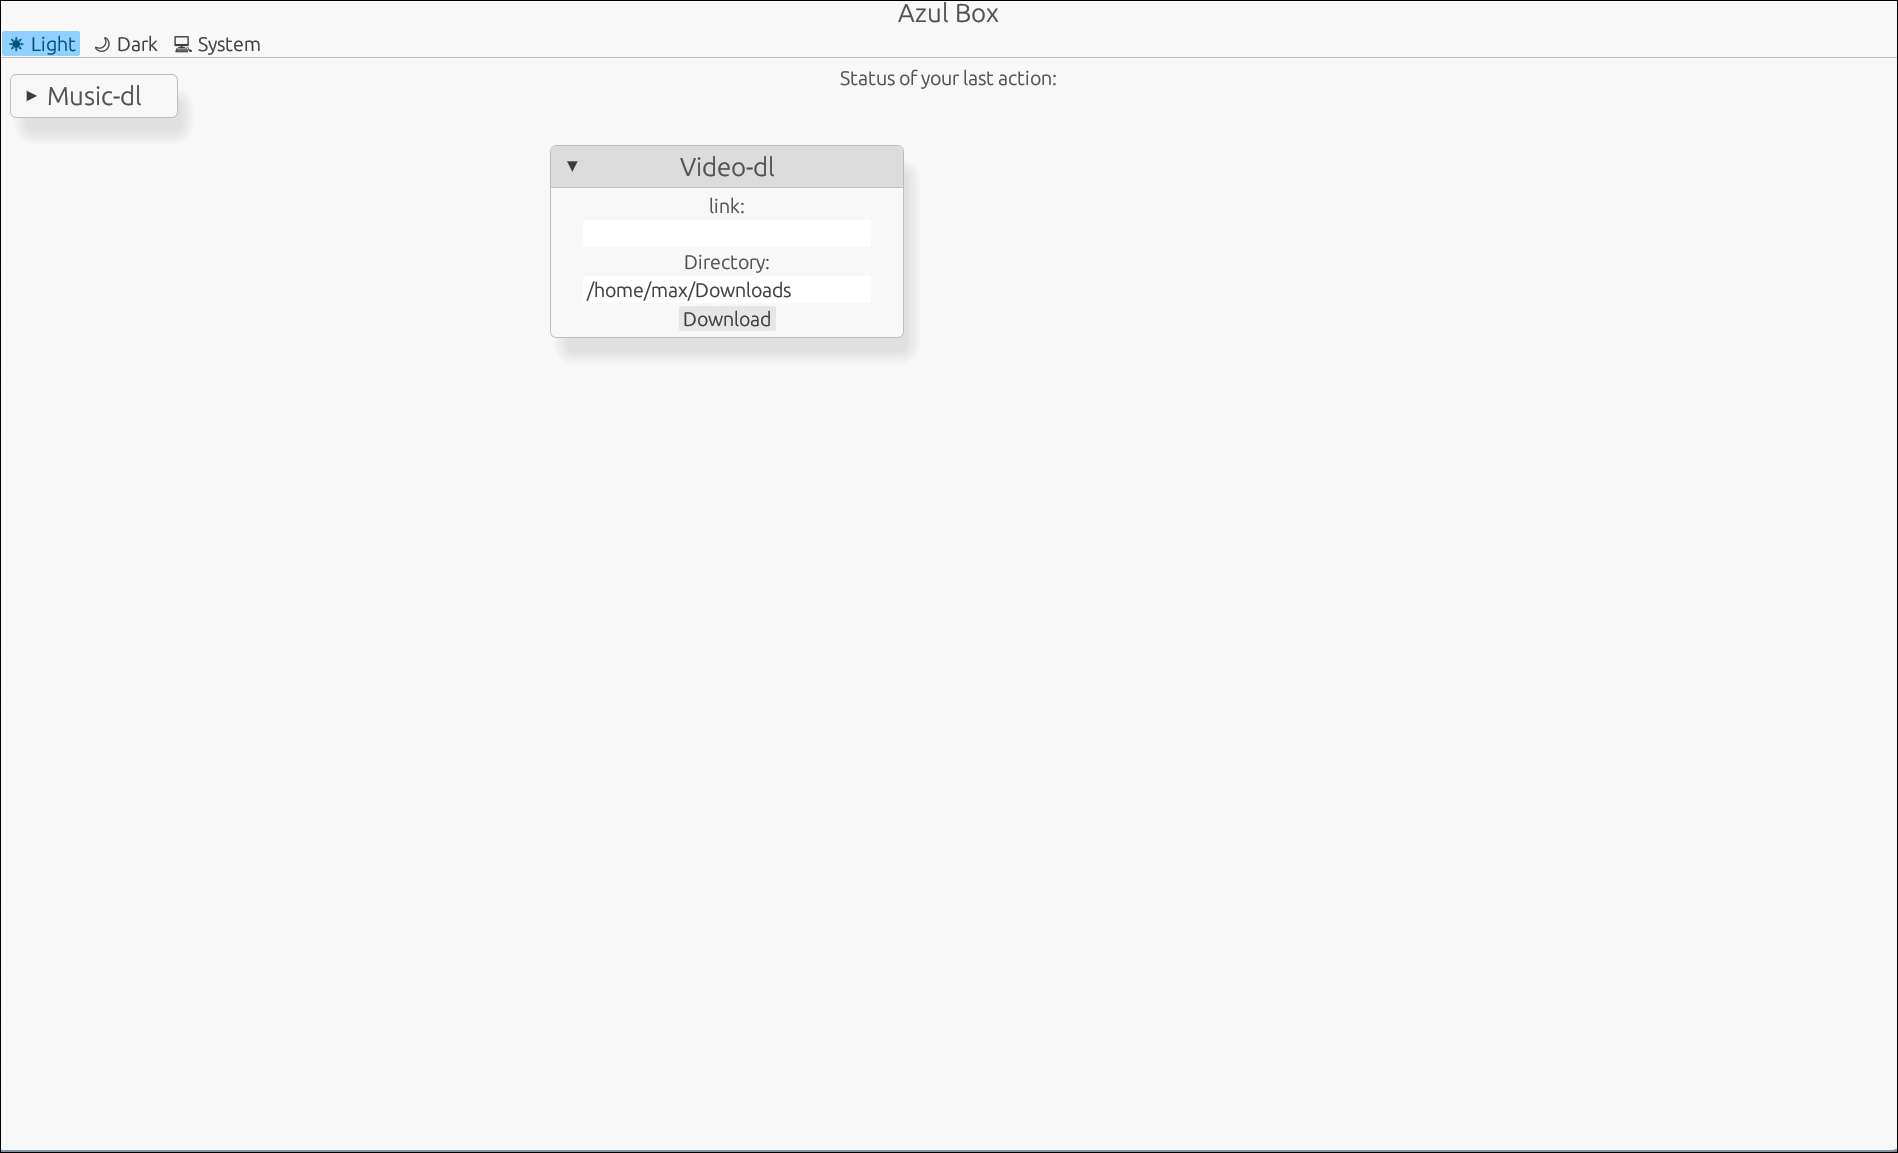
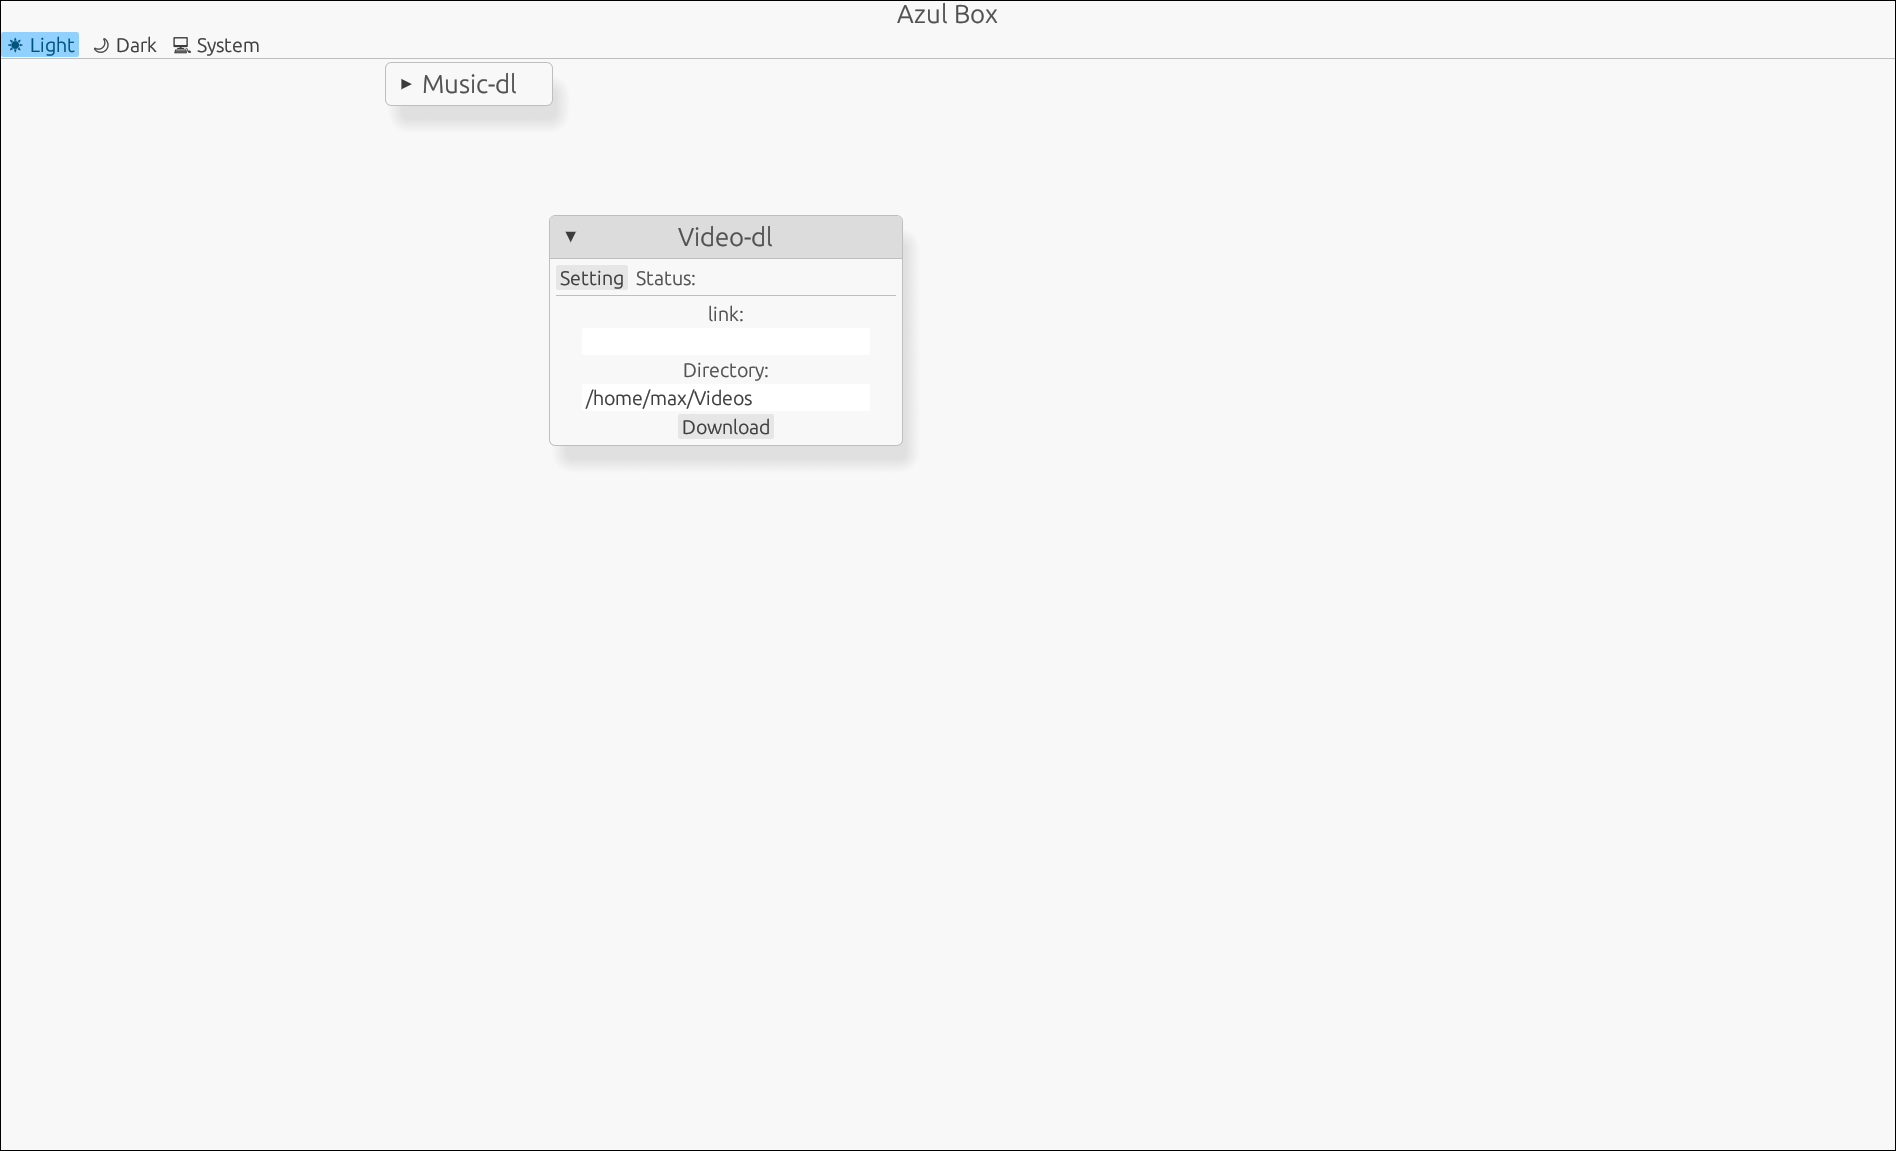
Update format choice

diff --git a/src/ui/video.rs b/src/ui/video.rs
@@ -9,6 +9,7 @@ pub struct VideoDownload {
     pub out_directory: String,
     pub status_complete: Arc<AtomicBool>,
     pub status_pending: Arc<AtomicBool>,
+    pub format: i8,
 }
 
 impl Default for VideoDownload {
@@ -21,6 +22,7 @@ impl Default for VideoDownload {
             out_directory: default_directory,
             status_complete: Arc::new(AtomicBool::new(false)),
             status_pending: Arc::new(AtomicBool::new(false)),
+            format: 1,
         }
     }
 }
@@ -33,11 +35,28 @@ impl VideoDownload {
     fn start_download_status(&mut self) {
         self.status_pending.store(true, Ordering::Relaxed);
     }
+    fn format_button(&mut self, ui: &mut egui::Ui, name: &str, numbername: i8) {
+        if self.format == numbername {
+            if ui
+                .add(egui::Button::new(
+                    egui::RichText::new(name).color(Color32::LIGHT_GREEN),
+                ))
+                .clicked()
+            {
+                self.format = numbername;
+            };
+        } else {
+            if ui.button(name).clicked() {
+                self.format = numbername;
+            };
+        }
+    }
     pub fn ui(&mut self, ui: &mut egui::Ui) {
         ui.horizontal(|ui| {
             ui.menu_button("Setting", |ui| {
                 ui.menu_button("Format", |ui| {
-                    ui.label("still empty");
+                    self.format_button(ui, "MKV", 1);
+                    self.format_button(ui, "MP4", 2);
                 });
                 if ui.button("Close").clicked() {
                     ui.close_menu();
@@ -81,11 +100,12 @@ impl VideoDownload {
 
                 let link = self.link.clone();
                 let directory = self.out_directory.clone();
+                let format = self.format.clone();
                 let complete = self.status_complete.clone();
                 let doing = self.status_pending.clone();
 
                 tokio::task::spawn(async move {
-                    download(link, directory).await;
+                    download(link, directory, format).await;
                     complete.store(true, Ordering::Relaxed);
                     doing.store(false, Ordering::Relaxed);
                 });
@@ -94,15 +114,20 @@ impl VideoDownload {
     }
 }
 
-async fn download(link: String, directory: String) {
+async fn download(link: String, directory: String, format: i8) {
+    if format == 1 {
+        mkv_dl(link, directory).await;
+    } else if format == 2 {
+        mp4_dl(link, directory).await;
+    }
+}
+async fn mkv_dl(link: String, directory: String) {
     let output = Command::new("yt-dlp")
         .arg("-f")
         .arg("bestvideo+bestaudio")
         .arg("--embed-thumbnail")
         .arg("--embed-subs")
-        .arg("--add-metadata")
-        .arg("--metadata-from-title")
-        .arg("--write-info-json")
+        .arg("--embed-metadata")
         .arg(link)
         .current_dir(directory)
         .output()
@@ -110,4 +135,22 @@ async fn download(link: String, directory: String) {
         .expect("Failed to execute command");
 
     println!("{:?}", output);
+    println!("best");
+}
+
+async fn mp4_dl(link: String, directory: String) {
+    let output = Command::new("yt-dlp")
+        .arg("-f")
+        .arg("bestvideo[ext=mp4]+bestaudio[ext=m4a]/best[ext=mp4]/best")
+        .arg("--embed-thumbnail")
+        .arg("--embed-subs")
+        .arg("--embed-metadata")
+        .arg(link)
+        .current_dir(directory)
+        .output()
+        .await
+        .expect("Failed to execute command");
+
+    println!("{:?}", output);
+    println!("mp4");
 }

diff --git a/src/ui/music.rs b/src/ui/music.rs
@@ -9,6 +9,7 @@ pub struct MusicDownload {
     pub out_directory: String,
     pub status_complete: Arc<AtomicBool>,
     pub status_pending: Arc<AtomicBool>,
+    pub format: i8,
 }
 
 impl Default for MusicDownload {
@@ -21,6 +22,7 @@ impl Default for MusicDownload {
             out_directory: default_directory,
             status_complete: Arc::new(AtomicBool::new(false)),
             status_pending: Arc::new(AtomicBool::new(false)),
+            format: 1,
         }
     }
 }
@@ -33,11 +35,31 @@ impl MusicDownload {
     fn start_download_status(&mut self) {
         self.status_pending.store(true, Ordering::Relaxed);
     }
+    fn format_button(&mut self, ui: &mut egui::Ui, name: &str, numbername: i8) {
+        if self.format == numbername {
+            if ui
+                .add(egui::Button::new(
+                    egui::RichText::new(name).color(Color32::LIGHT_GREEN),
+                ))
+                .clicked()
+            {
+                self.format = numbername;
+            };
+        } else {
+            if ui.button(name).clicked() {
+                self.format = numbername;
+            };
+        }
+    }
     pub fn ui(&mut self, ui: &mut egui::Ui) {
         ui.horizontal(|ui| {
             ui.menu_button("Setting", |ui| {
                 ui.menu_button("Format", |ui| {
-                    ui.label("still empty");
+                    self.format_button(ui, "OPUS", 1);
+                    self.format_button(ui, "FLAC", 2);
+                    self.format_button(ui, "MP3", 3);
+                    self.format_button(ui, "M4A", 4);
+                    self.format_button(ui, "WAV", 5);
                 });
                 if ui.button("Close").clicked() {
                     ui.close_menu();
@@ -81,11 +103,12 @@ impl MusicDownload {
 
                 let link = self.link.clone();
                 let directory = self.out_directory.clone();
+                let format = self.format.clone();
                 let complete = self.status_complete.clone();
                 let doing = self.status_pending.clone();
 
                 tokio::task::spawn(async move {
-                    download(link, directory).await;
+                    download(link, directory, format).await;
                     complete.store(true, Ordering::Relaxed);
                     doing.store(false, Ordering::Relaxed);
                 });
@@ -94,12 +117,27 @@ impl MusicDownload {
     }
 }
 
-async fn download(link: String, directory: String) {
+async fn download(link: String, directory: String, format: i8) {
+    if format == 1 {
+        format_dl(link, directory, "opus").await;
+    } else if format == 2 {
+        format_dl(link, directory, "flac").await;
+    } else if format == 3 {
+        format_dl(link, directory, "mp3").await;
+    } else if format == 4 {
+        format_dl(link, directory, "m4a").await;
+    } else if format == 5 {
+        format_dl(link, directory, "wav").await;
+    }
+}
+async fn format_dl(link: String, directory: String, format_name: &str) {
     let output = Command::new("yt-dlp")
         .arg("-i")
         .arg("-x")
         .arg("--audio-quality")
         .arg("0")
+        .arg("--audio-format")
+        .arg(format_name)
         .arg("--embed-thumbnail")
         .arg("--add-metadata")
         .arg("--metadata-from-title")

diff --git a/README.md b/README.md
@@ -3,7 +3,7 @@
 
 ## Feature
 
-- Download music from link with metadata/cover embeded
+- Download music from link with metadata/cover embedded
 - Download Video from link with highest quality with some metadata embeded
 
 My software will technically support all yt-dlp [support list](https://github.com/yt-dlp/yt-dlp/blob/master/supportedsites.md) not just youtube
